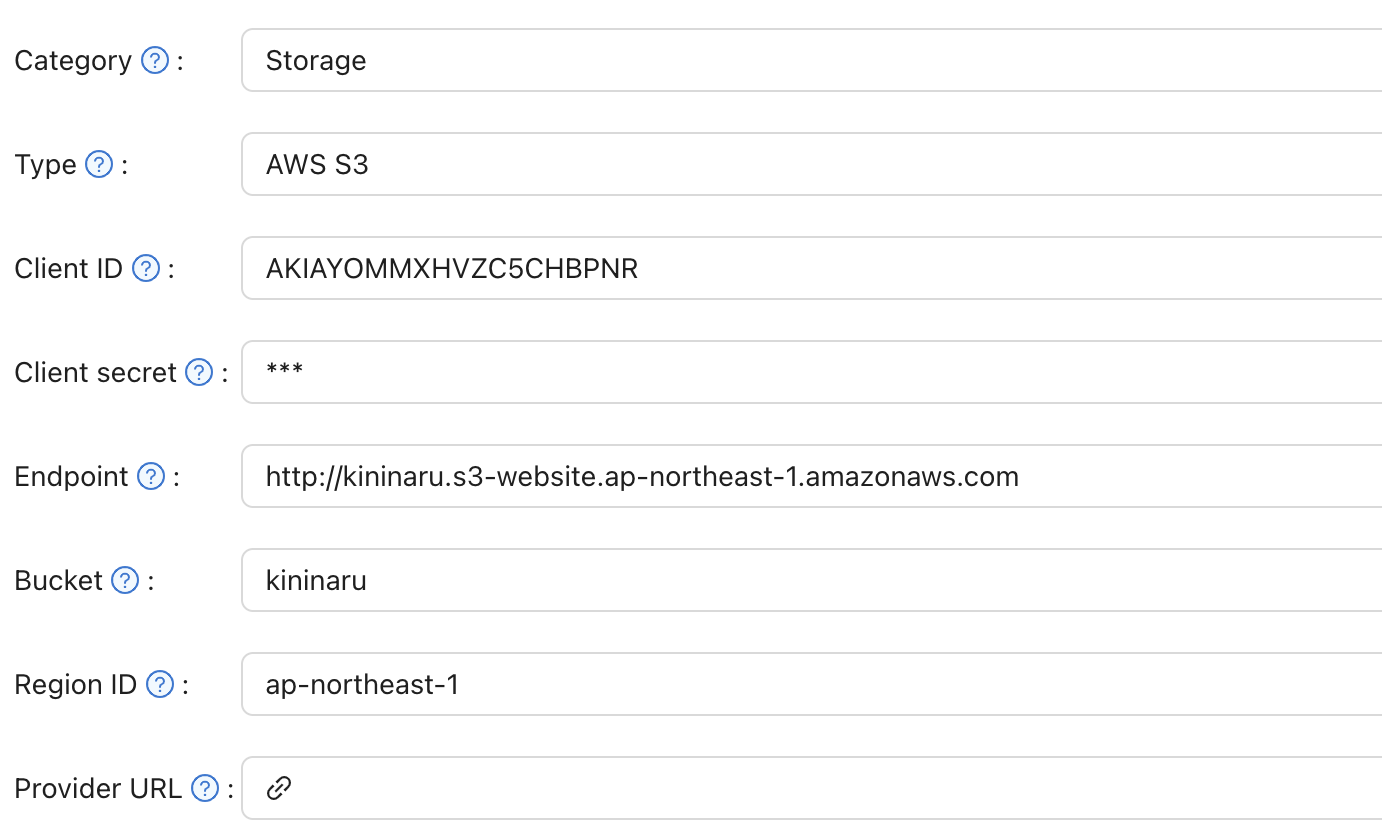
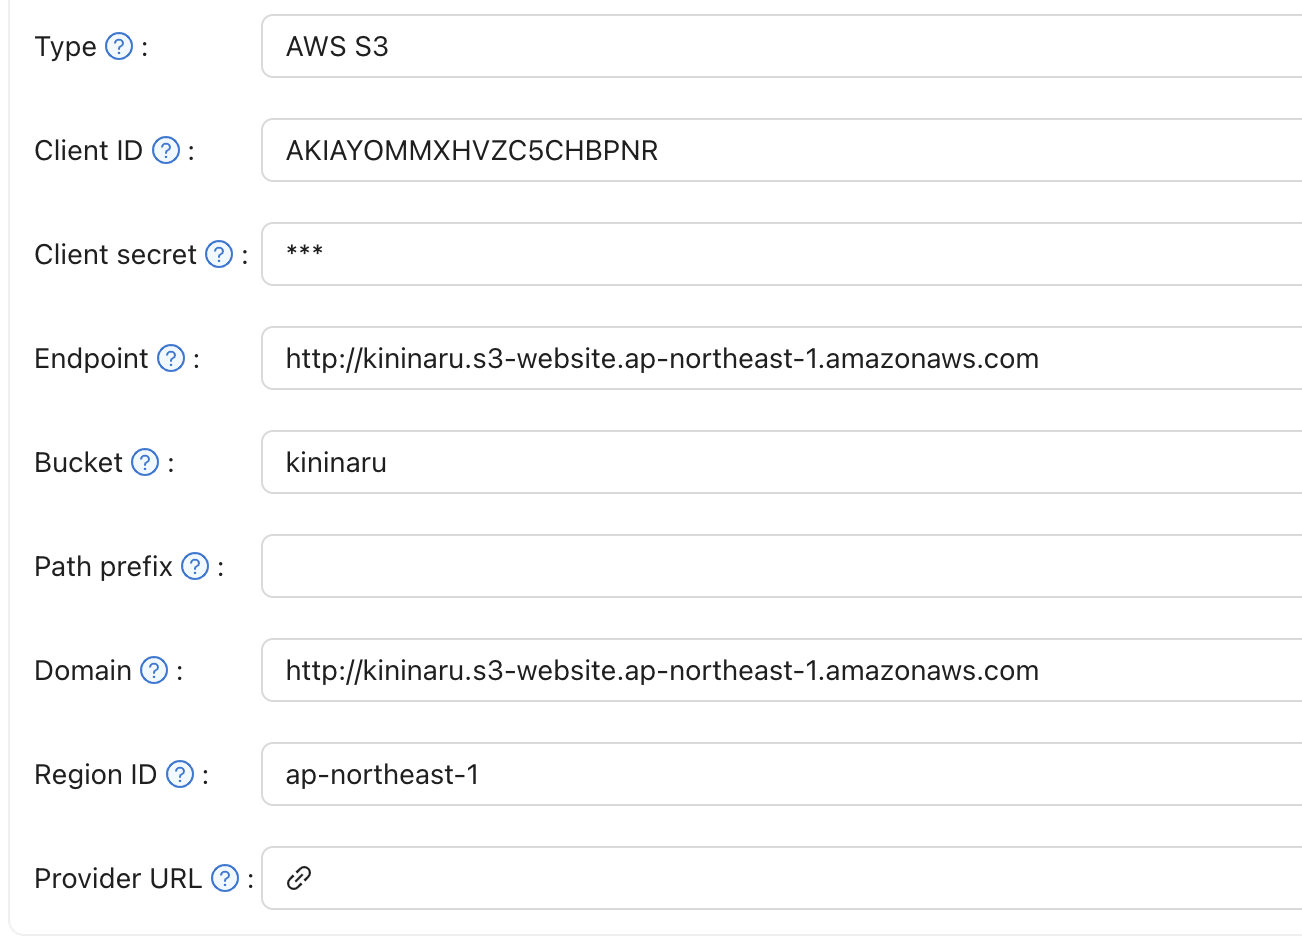
add cloudfront distribution option

diff --git a/docs/provider/storage/amazon-s3.md b/docs/provider/storage/amazon-s3.md
@@ -21,7 +21,7 @@ In your bucket permissons options, uncheck the "block" then save changes.
 
 ![uncheck block](/img/providers/storage/amazonNoBlock.png)
 
-Edit the object ownership, check ACLs enabled.
+Edit the object ownership, check **ACLs enabled**.
 
 ![check ACLs enabled](/img/providers/storage/amazonOwnership.png)
 
@@ -30,3 +30,11 @@ Edit the object ownership, check ACLs enabled.
 Fill the necessary information, includes the `Client ID` and `Client Secret` obtained from the `access key` and `secret access key` in the previous step. You can refer to this documentation for information on the formatting of the `endpoint`: [Website endpoints](https://docs.aws.amazon.com/AmazonS3/latest/userguide/WebsiteEndpoints.html)
 
 ![amazon s3 provider](/img/providers/storage/amazonProvider.png)
+
+### (Optional) Use CloudFront distribution
+
+Follow the document to config CloudFront: [config CloudFront](https://docs.aws.amazon.com/AmazonCloudFront/latest/DeveloperGuide/GettingStarted.SimpleDistribution.html)
+
+In the domain field, enter your distribution domain name
+
+![domain](/img/providers/storage/amazonCloudFront.png)
